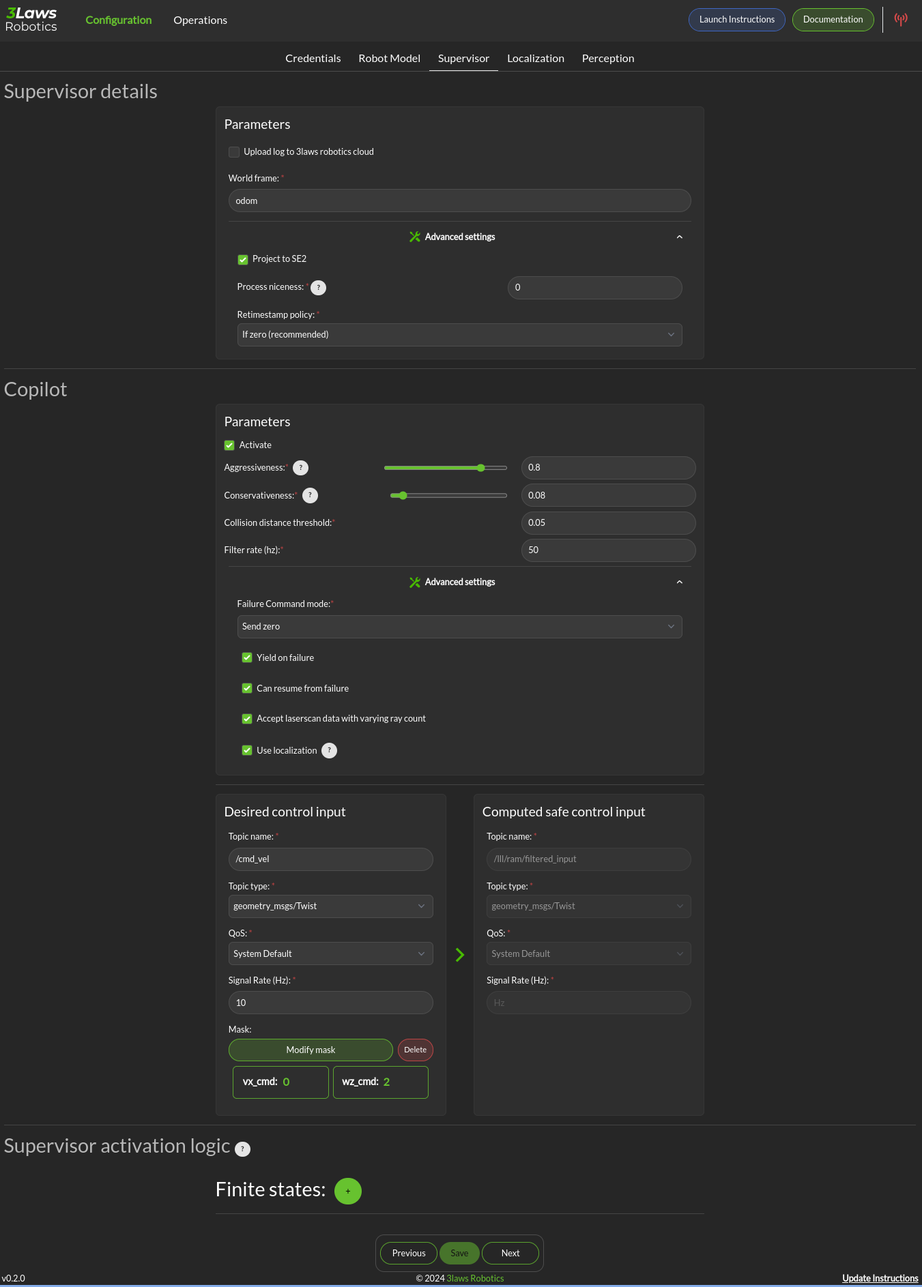
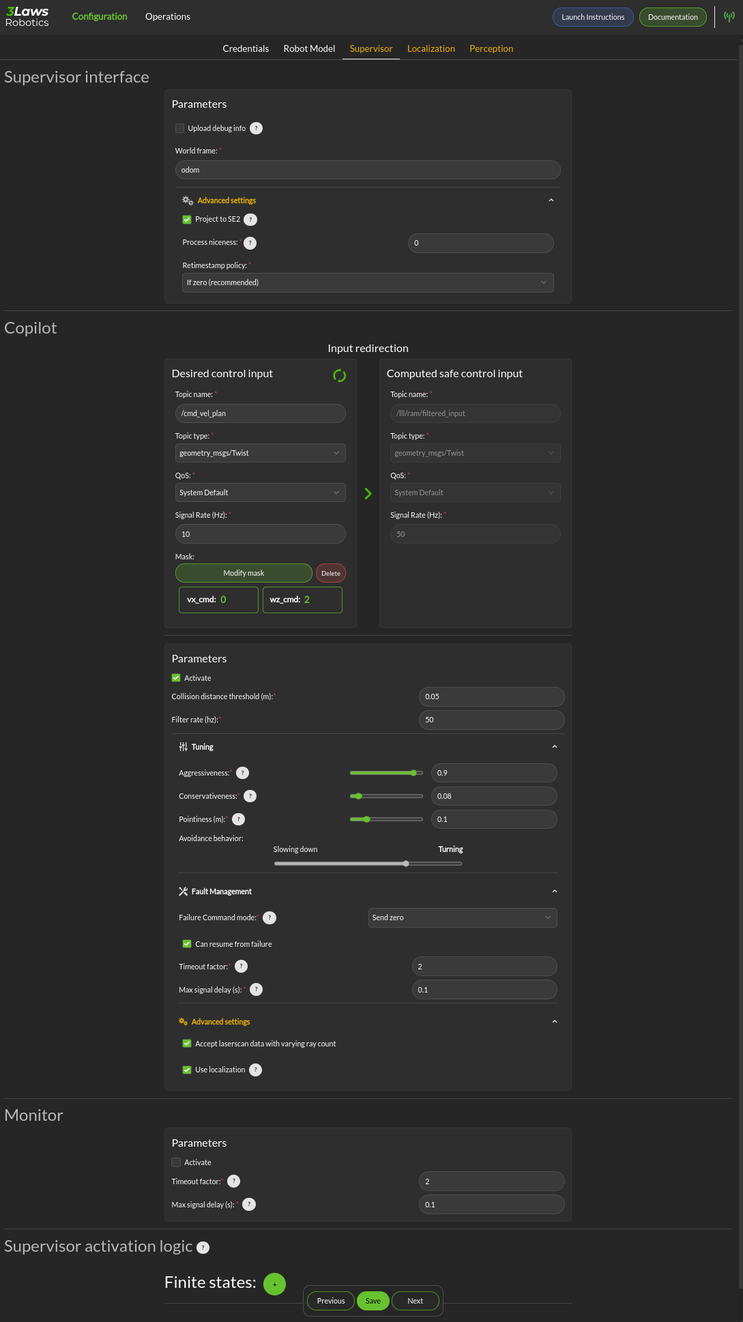
Synced text with images from latest control panel
Also filled in the FAQs page.

diff --git a/docs/sources/configuration/supervisor.rst b/docs/sources/configuration/supervisor.rst
@@ -1,3 +1,5 @@
+.. _supervisor activation:
+
 Supervisor
 ==========
 
@@ -8,48 +10,57 @@ The Configuration > Supervisor page contains configuration entries for both the 
    :alt: Configuration > Supervisor page where robot diagnostic monitoring thresholds and run-time assurance settings are available.
 
 
-- **Upload log to 3laws robotics cloud**: For debugging purposes, 3Laws creates a log file when Supervisor is started. Enabling this option, allows 3Laws to provide better support with troubleshooting if there is a problem.
+- **Upload log to 3laws robotics cloud**: For debugging purposes, 3Laws creates a log file when Supervisor is started. The file is stored in *~/.3laws/logs*. Enabling this option allows 3Laws to provide better support with troubleshooting if there is a problem.
 
   * **World Frame**: Similar to "base robot frame", the name of the world frame (typically *odom* or *map*) must be specified.
 
-  * **Advanced Settings > Project to SE2**: By default, the system is assumed to operate in 3-dimensional space. Projecting to SE2 assumes that the vehicle is traveling on a flat surface or that its travel distance is small enough that earth curvature effects are not significant.
+  * **Advanced Settings > Project to SE2**: By default, the system is assumed to operate in 3-dimensional space. Projecting to SE2 assumes that the vehicle is traveling on a flat surface or that its travel distance is small enough that earth curvature effects are not significant.  When mapping from 3-dimensional space to 2-dimensional space, the system is assumed to have zero roll and pitch while being placed on the ground. No rotational velocities or acceleration are assumed around roll and pitch, and zero vertical velocity and acceleration are assumed.
 
   * **Advanced Settings > Process niceness**:  The computational priority of the Supervisor node can be set through the "niceness" parameter, where -20 would set it as very high priority and +19 would be very low priority. A niceness of zero is recommended. (Please review documentation on setting priority in Linux using "nice" for a deeper explanation.)
 
   * **Advanced Settings > Retimestamp policy** is used to add or correct the timestamp on log messages that seem to have an incorrect one. Leaving the timestamp unchanged is also an option.
 
-* **Copilot**: The Copilot enables the run-time assurance capability where desired commands to the robot from the autonomy stack ("desired inputs") are modified in order to avoid collisions, and altered versions are published through a separate message.
+* **Copilot**: *Input Redirection* The Copilot enables the run-time assurance capability where desired commands to the robot from the autonomy stack ("desired inputs") are modified in order to avoid collisions, and altered versions are published through a separate message.
 
-  * **Activate**: This checkbox controls whether the run-time assurance intercepts and modifies commands from the planner/trajectory generator and forwards modified versions to the vehicle. The Copilot will only modify the outputs if the option is activated. If it is not activated, the unmodified "desired control input" will be transmitted on the designated "Computed safe control" message.
+  * **Desired control input**: This is the set of commands requesting speed and rotation (or speed and steering) that the autonomy stack is publishing. The ROS message type is needed so that Supervisor knows what to monitor in order to calculate the barrier function value. The message quality and receipt rate are monitored as part of the aggregated metrics, and if it fails to arrive within the expected time [1/(signal rate) * Timeout factor], an event will be created and the Copilot will transition to the failure command mode.
 
-  * **Aggressiveness**: This parameter controls how far from the nearest obstacle the safety filter starts having more effect on the commands and how strongly the safety filter pushes the robot back into the "safe" region if the safety definition has been violated. A larger value means that the control inputs from the planner will start to be modified when the robot is farther from an object/obstacle. In general this will produce larger margins. A larger value also means that if an obstacle is detected within the collision distance, the command modified by the run-time assurance will try to move the robot away from the object more aggressively. Typical values are between 0.5 and 1.0, but values in the range of 1000 might be used in reasonable situations. A smaller value means that the the robot will get closer to the obstacles (higher performance) before being diverted.
+  * **Computed safe control input**: The right side of this area is purely informational. However, if the robot is to be controlled by the run-time assurance signal, it needs to subscribe to the message that is presented here. Alternatively, the launch file for Supervisor can be modified so that */lll/ram/filtered_input* is remapped to the command signal expected by the platform.
 
-  * **Conservativeness**: A factor that specifies how much uncertainty the robot operator thinks there is in the localization and sensor data. The ratio between aggressiveness and conservativeness is the main controller of the behavior. Values below 0.1 are recommended.
+  * **Parameters > Activate**: This checkbox controls whether the run-time assurance intercepts and modifies commands from the planner/trajectory generator and forwards modified versions to the vehicle. The Copilot will only modify the outputs if the option is activated. If it is not activated, the unmodified "desired control input" will be transmitted on the designated "Computed safe control" message.  Additionally, when activated the CoPilot passes the unmodified desired input through to the platform except when a corrective action is needed.
 
-  * **Collision distance threshold**:  This is one of the most important values to set. This defines the distance between the edge of the robot and the nearest scan at which safety exists. If the measured distance drops below this value, the system is considered to be in an "unsafe" configuration.
+  * **Parameters > Collision distance threshold**:  This is one of the most important values to set. This defines the distance between the edge of the robot and the nearest scan at which safety exists. If the measured distance drops below this value, the system is considered to be in an "unsafe" configuration.
 
-  * **Filter rate (hz)**: The frequency at which the run-time assurance publishes outputs. It is recommended that the run-time assurance run at the same rate as the desired control input or at a faster rate.
+  * **Parameters > Filter rate (hz)**: The frequency at which the run-time assurance publishes outputs. It is recommended that the run-time assurance run at the same rate as the desired control input or at a faster rate.
 
-The following are under the "Advanced Settings". If the Copilot is activated, these should be customized:
+  * **Tuning > Aggressiveness**: This parameter controls how far from the nearest obstacle the safety filter starts having more effect on the commands and how strongly the safety filter pushes the robot back into the "safe" region if the safety definition has been violated. A larger value means that the control inputs from the planner will start to be modified when the robot is closer to an object/obstacle. That is, a larger value allows the platform to approach objects faster, and get closer.  If it gets too close, the Supervisor will push away from the object harder with a higher value.  A lower value will lead to a more tentative travel that stays farther away from objects.  In general lower values will produce larger margins. Typical values are between 0.5 and 1.0, but values in the range of 1000 might be used in reasonable situations. 
 
-      * **Failure Command Mode**: The run-time assurance constantly monitors to ensure that it has enough data to determine whether the robot is in a safe condition. The minimum data required is the vehicle state, the laser scan values, and the commanded/desired input. If any of these is missing the RTA can switch to the failure command mode:
+  * **Tuning > Pointiness**: A rectangular (box) shape has an unintended behavior that if the robot comes towards a narrow object diretly in front of it, the closest point calculation will select the center-line of the box as the evaluation point for distance.  If the outer corners get closer to the object, the barrier function will want to increase the distance between the object and the box, so it will tend to center the box relative to the object.  A more desirable behavior is for the box to turn away from the object to be able to get around it.  The *pointiness* parameter is a way of accomplishing this.  If the box has a nose with sharper curvature, the barrier function will push it away from the object laterally, rather than simply trying to increase the measured closest distance between the box and the object.  So increasing the "pointiness" will encourage the vehicle to "turn away" from obstacles that are directly in front. 
 
-        * **Send Zero**:  In this mode the run-time assurance commands zero speed and zero turn/rotation in order to bring the vehicle to a stop.
+  * **Tuning > Avoidance Behavior**: Similar to pointiness, the alternate behavior can also be selected as choosing to slow down more or choosing to turn away from the object more as the commanded (desired) input drives the platform towards an object.
 
-        * **Do not Publish**:  Another option is to stop publishing values. This option should only be used if the robot has its own mechanism to put itself in a safe condition if it is not receiving commands.
+  * **Fault Management > Failure Command Mode**: The run-time assurance constantly monitors to ensure that it has enough data to determine whether the robot is in a safe condition. The minimum data required is the vehicle state, the laser scan values, and the commanded/desired input. If any of these is missing the RTA can switch to the failure command mode:
 
-      * **Yield on failure**:  This checkbox is like the "Send Desired" option. Setting this checkbox will override the failure control mode and just forward the "Desired control input" unmodified.
-      * **Can resume from failure**: With this checkbox filled in, once the input data (control input, laser scan, and state) values start appearing after a failure, the robot will be commanded back into motion (if the desired control input is asking for that). If the box is unchecked once there is a failure, the robot will remain stopped until the Supervisor is restarted.
+    * **Send Zero**:  In this mode the run-time assurance commands zero speed and zero turn/rotation in order to bring the vehicle to a stop.
 
-      * **Accept wrong size laserscan**: One of the checks that is made on the incoming data is that the laserscan is delivering the expected number of scan points each frame. However, there are many laser scanners that are not consistent in the number of scan points they deliver. Checking this option allows for laser scanners with non-constant number of scan points reported.
+    * **Do not Publish**:  Another option is to stop publishing values. This option should only be used if the robot has its own mechanism to put itself in a safe condition if it is not receiving commands.
 
-      * **Use localization**:  Supervisor provides a MarkerArray that displays the robot's bounding box and rays to the closest obstacles. If "Use Localization" is set, the display is created relative to the world frame. In situations where the localization may be less reliable, this checkbox can be deselected, and the visualization will be based on the current robot base frame. Localization is also very useful if the control rate is low (e.g. longer times between commands) or there are delays between sensing and actuating. If the robot's motion is large during the time period of the control calculation, the model will account for it as long as localization is accurate.
+  * **Fault Management > Can resume from failure**: With this checkbox filled in, once the input data (control input, laser scan, and state) values start appearing after a failure, the robot will be commanded back into motion (if the desired control input is asking for that). If the box is unchecked once there is a failure, the robot will remain stopped until the Supervisor is restarted.
 
-The next section relates to republishing the control commands to the robot that are being sent from the autonomy stack. The values will be published on the *lll/ram/filtered_input* channel if the Copilot is activate or not. However, the values will only be different from the *Desired control input* if the Copilot is active.
+  * **Advanced Settings > Accept wrong size laserscan**: One of the checks that is made on the incoming data is that the laserscan is delivering the expected number of scan points each frame. However, there are many laser scanners that are not consistent in the number of scan points they deliver. Checking this option allows for laser scanners with non-constant number of scan points reported.
 
-  * **Desired control input**: This is the commands requesting speed and rotation (or speed and steering) that the autonomy stack is publishing. The ROS message type is needed so that the RDM knows what to monitor in order to calculate the barrier function value. The message quality and receipt rate are monitored as part of the aggregated metrics, and if it fails to arrive within the expected time [1/(signal rate) * Timeout factor], an event will be created and the Copilot will transition to the failure command mode.
+  * **Advanced Settings > Use localization**:  Supervisor provides a MarkerArray that displays the robot's bounding box and rays to the closest obstacles. If "Use Localization" is set, the display is created relative to the world frame. In situations where the localization may be less reliable, this checkbox can be deselected, and the visualization will be based on the current robot base frame. Localization is also very useful if the control rate is low (e.g. longer times between commands) or there are delays between sensing and actuating. If the robot's motion is large during the time period of the control calculation, the model will account for it as long as localization is accurate.
 
-  * **Computed safe control input**: The right side of this area is purely informational. However, if the robot is to be controlled by the run-time assurance signal, it needs to subscribe to the message that is presented here.
+- **Monitor**:
+
+  Supervisor can publish a variety of diagnostic messages related to the health of the system clock, the dyamic consistency of the motion of the platform, individual node health, signal coherency, and summarized system health.  The published messages are discussed in :ref:`published topics`.   These messages in the */lll/rdm* domain are only published if the Monitor is set to Active.
+  
+    * **Activate**: Enable publication of the diagnostic messages through the */lll/rdm* domain.  Faults detected in these variables do not cause CoPilot to switch to the failsafe mode.
+
+    * **Timeout Factor**: Allows this many messages at the expected arrival rate to be missed before reporting an error.
+
+    * **Maximum Delay (s)**: Maximum amount of time that a message can fail to appear before reporting an error.
+        
+The bottom section relates to republishing the control commands to the robot that are being sent from the autonomy stack. The values will be published on the *lll/ram/filtered_input* channel if the Copilot is activate or not. However, the values will only be different from the *Desired control input* if the Copilot is active.
 
 - **Supervisor activation logic**:
 

diff --git a/docs/sources/faq.rst b/docs/sources/faq.rst
@@ -1,7 +1,77 @@
 FAQ
 #####################################
 
-Does the supervisor support other types of vehicles?
-====================================================
+How does the 3Laws Supervisor work?
+===================================
 
-Yes, the supervisor can be used with any type of vehicle, as long as the vehicle is equipped with a GPS receiver and an IMU. The supervisor is not limited to cars, and can be used with trucks, buses, motorcycles, bicycles, etc.
+Supervisor depends on a kinematic/dynamic model of the vehicle, a measure of the distance to the nearest object(s), and the current requested input to the system. In simple terms, Supervisor calculates the likelihood that the current command will drive the vehicle to come too close to the nearest objects faster than the vehicle can be pushed away from them.  If the measure indicates an imminent violation of the requested margin, Supervisor will find the motion command that is quadratically closest to that being requested but yet keeps the vehicle from colliding.  When no collision is predicted, Supervisor forwards the requested input directly as output. The input is only modified when a collision (or a fault) is detected.
+
+Supervisor also has several fault handling options.  Supervisor will monitor the regularity of receipt of the obstacle list or LaserScan input, of the state, and of the requested input.  If any of these signals drops out or fails to meet criteria like number of scan points, Supervisor can either stop forwarding the requested input or can send zeroes - to stop motion of the vehicle.
+
+What are CBFs?
+==============
+
+Control barrier functions are a mathematical formulation to constrain a physical system in motion to stay within a desired region of operation.  By commanding the system back into what is defined as the desirable (or “invariant set”) region, certain properties similar to stability and safety can be provided.  In theory these properties are guaranteed as long as the system responds according to the mathematical model that is being used.  
+
+The CBF itself is a mathematical function that measures the distance from the system’s current condition to a boundary.  The objective is to keep the system within the boundary.  The definition of the boundary or barrier can be built to meet a wide variety of goals including collision avoidance, geo-fencing, falling over, exceeding angles-of-attack, violating accelerations, and multiple others.
+One of the main advantages of this formulation is that multiple objectives can be applied simultaneously.  
+
+Operation of the CBF technology requires both the definition of the barrier function and creation of a remediation strategy. The remediation is an approach to command the system back into a region where the function has the desirable value.  Typically, there will be a large collection of commands that can maintain the system’s state within the desirable regions, so a choice of the “best” one needs to be made.  The implementation in Supervisor sets up a quadratic programming (QP) problem to obtain this solution.  This optimization means that the system will come as-close-as-possible to the motion that is being requested while still avoiding the undesirable outcome like a collision.  
+
+3Laws was founded by Aaron Ames and some of his team members who are responsible for creating the concept and developing/successfully demonstrating  the implementations in a variety of systems including walking robots, wheeled vehicles, autonomous trucks, quad-copters, watersport boats, and commercial/military aircraft.
+
+What is needed in order to implement a CBF?
+===========================================
+
+CBFs depend on a mathematical model of the physical (dynamical) system of interest. Often, a reduced-order model can be used without significant loss of performance/guarantees.  Reduced order models result in lower computational loads.  However, higher model precision and accuracy are desirable because margins for uncertainty can be reduced.
+
+Next, CBFs depend on the desired barrier function itself.  For collision avoidance, the barrier function could, for example, be the squared distance to the object.  If multiple objects are being tracked, the barrier function can be built as the sum of the distances to these objects.  This is a great feature because one can then use a point-cloud to represent the objects, and a scan can be done through the point cloud, always responding to the worst-case (closest) point. 
+
+Then, beyond the need for computational equipment, the only  remaining needs are the desired commands that drive the system, the state of the system (if there are system-state variables in the barrier function) and the external measurements (like obstacles) arriving in real-time. 
+
+How are CBFs implemented in 3Laws Supervisor?
+What Makes 3Laws Supervisor so performant? Provable Math.
+
+- Supervisor Rate of change is based on the barrier function h, which must satisfy: hdot >= alpha * h
+- Solution depends on applied actions (u) and the system model: dx/dt = f(x) + g(x)*u
+- Solution process:
+  - Compute the expression for h to give sets of linear constraints.
+  - Solve the constraints (through a QP) to produce modified commands that are closest to the original but meet the constraints.
+  - Stopping the vehicle or changing direction are typical optimal solutions.
+- Expanded Capabilities:
+  - Multiple objects/barriers.
+  - Noise and Uncertainties methodically handled.
+  - Aggressive/Conservative Qualities can be adjusted.
+
+-Updates by the planner immediately produce a new, modified u. 
+
+This approach generalizes for drones, quadrupeds, aircraft, AMRs, manipulators  autonomous vehicles, or anything that moves and has fly-by-wire controllers.
+
+Does Supervisor use any methods other than CBFs to deliver its functionality?
+=============================================================================
+
+Supervisor goes beyond just CBFs in order to provide a more practical solution.  The way the Supervisor filtering is implemented provides a really convenient path to also provide capabilities like bringing the vehicle to a “failsafe” configuration if problems are detected with incoming data.  Supervisor monitors the primary 3 data streams (system state, desired inputs, obstacle/sensor) and if any of these states does not meet the requirements such as regular arrival time, Supervisor can switch to a fail-safe state (e.g. send stopping commands).  Supervisor can also monitor additional variables that have discrete states (e.g. “starting”, “running”, “stopped”), and can cause a change to failsafe state if one or more of these monitored variables has an undesirable value.
+
+What are some examples of 3Laws Supervisor applications? In other words, how can Supervisor be used in the real world?
+======================================================================================================================
+
+Currently, Supervisor only supports collision avoidance for omni-directional, differential-drive, and single-track vehicles. 
+
+Supervisor **Pro** offers collision avoidance, geofencing, system stability, and other operation constraint satisfiers. Specifically, Supervisor Pro can add the necessary control to your system to satisfy any performance constraint as long as your systems’ sensors provide the relevant real-time metrics. 
+
+What is the difference between Supervisor and Supervisor **Pro**?
+=================================================================
+
+Supervisor is a fast-to-install, low-configuration collision avoidance software component for omni-directional, differential-drive, and single-track vehicles controlled by ROS and ROS2.
+
+Supervisor Pro uses the same codebase as Supervisor but is tailored/optimized  for specific platforms and use cases.  For example, if the system uses interfaces other than ROS, Supervisor Pro can be designed using the appropriate interfaces.  More importantly, Supervisor Pro will achieve higher performance because it is built for the individual platform including considerations about its operational domain and what objectives it must accomplish.  The Control Barrier Functions and models most appropriate to the individual operations are selected and applied.
+
+On what types of systems has 3Laws implemented Supervisor?
+==========================================================
+
+Supervisor is currently implemented on Autonomous Mobile Robots (AMRs).  Supervisor Pro has been implemented on semi trucks, military drones, fighter jets, manipulators, AMRs, inverted pendulums (Segways), speed boats, and quadrupeds.
+
+How long has Supervisor been under development?
+================================================
+
+Supervisor has a long and proven legacy of development and industrial testing both at Georgia Tech and Caltech for over 8 years with industry leaders such as Raytheon, Ford, Wondercraft, BP, et al.

diff --git a/docs/sources/getting_started.rst b/docs/sources/getting_started.rst
@@ -6,7 +6,7 @@ Getting started
 Installation
 ***************
 
-The 3Laws Robotics Supervisor currently requires that the robot uses the Robot Operating System (`ROS <http://www.ros.org>`_).
+The 3Laws **Supervisor** requires Robot Operating System (`ROS <http://www.ros.org>`_) for proper communication with the base platform.
 
 Multiple ROS version are supported:
 
@@ -18,16 +18,15 @@ Multiple ROS version are supported:
 |        20.04          |     Noetic   |     Galactic/Foxy   |
 +-----------------------+--------------+---------------------+
 
-Supervisor is available for x86_64 and ARM-64 processor architectures. Other architectures
-may be available upon request.
+Supervisor is available for x86_64 and ARM-64 processor architectures. Other architectures may be available upon request.
 
-To install Supervisor on your system, open a terminal and run the following command:
+To install Supervisor on the system, open a terminal and run the following command:
 
 .. code-block:: bash
 
   bash <(curl https://raw.githubusercontent.com/3LawsRobotics/3laws/master/install.sh)
 
-This script will download a package from github and will begin the installation. Note that the package name starts with "lll-supervisor". The "lll" represents 3Laws. As the script proceeds it will try to determine your system's configuration so that the appropriate components are installed. The script will prompt you for help with configuration if it is unable to find your computer's ROS distribution or architecture.
+This script will download a package from github and will begin the installation. Note that the package name starts with "lll-supervisor". The "lll" represents 3Laws. As the script proceeds it will try to determine the system's configuration so that the appropriate components are installed. The script will prompt for help with configuration if it is unable to find the computer's ROS distribution or architecture.
 
 During the execution of the script, several questions will be asked:
 
@@ -37,7 +36,7 @@ During the execution of the script, several questions will be asked:
 
 #. A *sudo* permission may be ask to run APT and install the software.
 
-The script will add components to the global ROS installation. These new components will not be available until the ROS setup script is source. If your configuration automatically runs the ROS setup script when a new shell is started, please close the terminal and open a new one. Otherwise, please run the following command:
+The script will add components to the global ROS installation. These new components will not be available until the ROS setup script is source. If the configuration automatically runs the ROS setup script when a new shell is started, please close the terminal and open a new one. Otherwise, please run the following command:
 
 .. code-block:: bash
 
@@ -61,19 +60,19 @@ Run the following command to see the available commands:
 
   3laws --help-all
 
-After installation you can use the CLI to start the Control Panel:
+After installation the command-line interface (CLI) can be used to start the Control Panel:
 
 .. code-block:: bash
 
   3laws control-panel run
 
-If you prefer using a service to run the Control Panel in the background, you can use the following command:
+If a service is preferred for running the Control Panel in the background, use the following command:
 
 .. code-block:: bash
 
   3laws control-panel autostart enable
 
-This will create a user service. This one will be started automatically when the system boots up. The Control Panel will be available at `http://localhost:8080`. If you want to change the port, you can use the following command:
+This will create a user service. This one will be started automatically when the system boots up. The Control Panel will be available at `http://localhost:8080`. To change the communication port, use the following command:
 
 .. code-block:: bash
 
@@ -86,7 +85,7 @@ To turn off the service so that the Control Panel service is removed from the sy
    3laws control-panel autostart disable
 
 The Control Panel can also display a summary of operational conditions, but this capability requires a rosbridge server. To install and start a rosbridge
-server (where <rosdistro> is replaced with the version of ROS on your system):
+server (where <rosdistro> is replaced with the version of ROS on the system):
 
 .. code-block:: bash
 
@@ -104,7 +103,7 @@ The navigation bar of the control panel will show the status of the rosbridge se
 Configuration through the Control Panel visual interface
 ************************************************************
 
-The 3Laws Supervisor is able to support several types of robots, but needs to connect to your system's data sources and sinks. The configuration process aims to specify this type of information. The Supervisor does not have to run during the configuration step. It loads the configuration file at start-up, so it needs to be started **after** the configuration is created/updated.
+The 3Laws Supervisor is able to support several types of robots, but needs to connect to the system's data sources and sinks. The configuration process aims to specify this type of information. The Supervisor does not have to run during the configuration step. It loads the configuration file at start-up, so it needs to be started **after** the configuration is created/updated.
 
 
 The initial view of the Control Panel is the "Configuration" page, which consists of sections (tabs) listed as **Credentials**, **Robot Model**, **Supervisor**, **Localization**, and **Perception**. The details of the contents of each of these pages are linked below.
@@ -131,7 +130,7 @@ The initial view of the Control Panel is the "Configuration" page, which consist
 Launch
 *********
 
-Before starting the supervisor be sure to have your ROS environment correctly set up and sourced.
+Before starting the supervisor be sure to correctly set up/source the ROS environment.
 
 .. code-block:: bash
 
@@ -209,9 +208,9 @@ The lower section of the panel is showing strip charts. The categories that are 
 Version Update
 *****************
 
-To update the Supervisor, you can use the same command as for the installation.
+To update the Supervisor, use the same command as for the installation.
 
-The supervisor will be updated to the latest version available for your distribution, **Existing configurations will not be modified**, but if new variables need to be configured, you will be advised during the installation.
+The supervisor will be updated to the latest version available for the system's distribution. The **existing configurations will not be modified**, but if new variables need to be configured, advisories will be given during the installation.
 
 .. code-block:: bash
 

diff --git a/docs/sources/configuration/robot_model.rst b/docs/sources/configuration/robot_model.rst
@@ -1,6 +1,6 @@
 Robot Model
 ===========
-The Configuration page for the Robot Model is where the robot's geometry and kinematics are specified.
+The Configuration page for the Robot Model is where the robot's geometry and kinematics are specified.  The model and shape are critical for predicting when collisions may occur and for calculating how to avoid them.
 
 .. image:: ../data/cpanel2.png
    :width: 800px
@@ -8,18 +8,19 @@ The Configuration page for the Robot Model is where the robot's geometry and kin
 
 Throughout this documentation, a red asterisk (*) indicates a *required* field.
 
-- **Kinematics**: Supervisor currently supports differential drive, front-steered, and omni-directional mobile platforms. A differential drive vehicle can rotate around a fixed location by driving one wheel forward and its pair in reverse. It can move forward or backwards by driving both wheels in the same direction. A front-steered vehicle operates like a car or bicycle. It can move forwards or backwards, but direction is controlled by steering, and the vehicle has a fixed wheelbase distance between the forward axle and the rear axle. An omni-directional robot is usually implemented using wheels that have a series of smaller wheels mounted at 45 degrees on the outer rim. By moving one axle forward and others backwards, the vehicle can move sideways. Rotation can be effected by moving the wheels on one side forwards and the wheels on the other side in reverse.
+- **Kinematics**: **Supervisor** currently supports differential drive, front-steered, and omni-directional mobile platforms. A differential drive vehicle can rotate around a fixed location by driving one wheel forward and its pair in reverse. It can move forward or backwards by driving both wheels in the same direction. A front-steered vehicle operates like a car or bicycle. It can move forwards or backwards, but direction is controlled by steering, and the vehicle has a fixed wheelbase distance between the forward axle and the rear axle. An omni-directional robot is usually implemented using wheels that have a series of smaller wheels mounted at 45 degrees on the outer rim. By moving one axle forward and others backwards, the vehicle can move sideways. Rotation occurs by moving the wheels on one side forwards and the wheels on the other side in reverse.
+  
 - **Geometry**: The vehicle's reference coordinate frames and geometry are specified in this section.
-
+  
   * **Shape Details**: The robot's shape is used in order to calculate the distance between the outer boundaries of the robot body and any scan points. Basic shapes that are currently supported include sphere, box, capsule, point, cone and cylinder. The size entries change based on the selected shape. Cylinders and capsules both require length and radius. The difference is that a capsule will have hemispheres on the ends while the cylinder ends are flat. A box frame consists of x-length, y-length, and z-length.
 
-   * **Shape Pose in Robot Frame**: The relative orientation of the robot's shape with respect to the base frame needs to be specified. Note that the rotation can be specified either using quaternions or Euler angles. The quaternion order is w, x, y, z. When Supervisor is running, it is a good idea to run rviz (or rviz2) to display the orientations and frames.
+  * **Shape Pose in Robot Frame**: The relative orientation of the robot's shape with respect to the base frame needs to be specified. Note that the rotation can be specified either using quaternions or Euler angles. The quaternion order is w, x, y, z. When Supervisor is running, it is a good idea to run rviz (or rviz2) to display the orientations and frames. The coordinate frame convention used here is x: positive forward, y positive to the left, and z positive upwards.  The geometric center and orientation of the shape starts as being centered on the base coordinate frame/orientation of the robot.  The shape should be translated and rotated appropriately if the base coordinate frame does not align with the center.
 
   * **Frames**: The name of the robot base coordinate frame must be specified here. The base frame is in robot body-coordinates. It moves in space as the robot does. Additional static frames can be defined by clicking the + icon. The additional frames are static, and will follow the motion of the base robot frame.
 
 - **Dynamics**: The Dynamics section has 3 subsections: Input, Parameters, and State.
 
-  * The Input section supports specification of maximum and minimum limits for the translational and rotational speeds at which the robot can be commanded. For monitoring, if these values are exceeded, an event to this effect will be issued. If the Copilot component is active, these limits will be applied to the filtered outputs. For steered vehicles, instead of limits on rotational speeds, steering limits are specified.
+  * The **Inputs** section supports specification of maximum and minimum limits for the translational and rotational speeds at which the robot can be commanded. For monitoring, if these values are exceeded, a log-event describing the violation will be issued. If the CoPilot component (see :ref:`supervisor activation`) is active, these limits will be applied to the filtered outputs. For steered vehicles, instead of limits on rotational speeds, steering limits are specified.
 
   * **Parameters**: The only robot type that has inputs in the parameters section is the steered robot. *wheel_dx* is the wheelbase length for the vehicle. *origin_x* is the distance from the rear axle to the robot base frame.
 

diff --git a/docs/sources/details/topics.rst b/docs/sources/details/topics.rst
@@ -1,3 +1,5 @@
+.. _published topics:
+
 Supervisor ROS topics
 *********************
 
@@ -24,10 +26,19 @@ When the CoPilot/Run-time assurance capability is enabled, the following additio
 
 The following topics are published by the Supervisor's diagnostics:
 
-- ``/lll/rdm/clock_health``: Statistics reporting variations in the synchronization of the robot clock and Universal time.
-- ``/lll/rdm/dynamic_consistency``: If a dynamical model has been added to the configuration, this topic will compare the predicted model behavior to the current behavior and provide discrepancy metrics.
-- ``/lll/rdm/node_health``: Node health gives a general view of the health of the robot components likes localization, perception, inputs, and states.
-- ``/lll/rdm/sensor_characterization``: This metric presents statistics on the noise characteristics, data dropouts, anomalies, and potential obstructions of the sensors.
-- ``/lll/rdm/systems_health``: Detailed information about the system resource usage (CPU, RAM, etc.) is provided through this channel.
-- ``/lll/rdm/signal_health``: All Supervisor input signals (state, commands, perception) are treated as signals with a specific frequency. This metric gives information about the signal health (timeout, delays, invalid data) based on the configured expected signal rates.
+
+- ``/lll/rdm/clock_health_utc``: Statistics reporting variations in the synchronization of the robot clock and Universal time. This presents the current UTC time and real-time-clock value in nanoseconds since 1970, presenting the offset between the two.
+- ``/lll/rdm/domain_status``: The summary of the condition of the vehicle is presented in the following fields: system_status, behavior_status, hardware_status, perception_status, and control_status.  When everything is working properly, a status of OK is reported for each. 
+- ``/lll/rdm/dynamic_consistency``: If a dynamical model has been added to the configuration, this topic will compare the predicted model behavior to the current behavior and provide discrepancy metrics.  Several values including differences in speeds between the platform and the model, and statistics on these differences are provided.  Time since last input and time since last state message are also provided (in nanoseconds).
+- ``/lll/rdm/incidents_log``: As events are detected in the system, they are published through this channel as text messages.  The "tags" area of the message includes discrete-value key-value pairs for severity and type of issue.
+- ``/lll/rdm/node_health``: Node health provides the status messages from various nodes. For example, the sensor_node provides details of the laserscan including the time since the last message, and average/min/max sending rates, receipt rates, and delays.
+- ``/lll/rdm/sensor_noise``: This metric presents statistics on the noise characteristics for the sensors including: average error, maximum error, maximum angle error, and percentage of sigma.  Each data set is tagged with the sensor it corresponds to.
+- ``/lll/rdm/sensor_obstruction``: If the monitor detects that the laserscan appears to be obstructed in certain angular sectors, the information about the amount of osbtruction is published through this channel.
+- ``/lll/rdm/signal_health``: Monitor is constantly checking to see if inputs to the system are reasonable (e.g. are finite, numerical values). If values such as Not-a-Number (nan), purely zero, or infinity are received, the occurrences are reported.
+- ``/lll/rdm/systems_health``: Detailed information about the system resource usage is provided through this channel: system_id, cpu_load, ram_usage, disk_usage, network_read, network_write, cpu_nb (core count), and procs_nb (process count).
+
+More precise control can be obtained by editing the *supervisor.yaml* file under the *robot_diagnostics_module* area. The default settings are shown below.
+
+.. literalinclude:: rdm_data.txt
+
 

diff --git a/docs/sources/configuration/credentials.rst b/docs/sources/configuration/credentials.rst
@@ -1,14 +1,14 @@
 Credentials
 ===========
 
-The *Credentials* page is shown in this image:
+The *Credentials* page appears as follows:
 
 .. image:: ../data/cpanel1.png
    :width: 800px
    :alt: Configuration > Credentials: Control Panel page presenting Credentials, Robot name
 
-- **Credentials**: 3Laws will provide you with a license key based on the version of Supervisor that you have purchased with an expiration date. If you downloaded the trial version, the expiration date is 60 days from the date when you registered for the trial. If you have arranged with 3Laws to also use the cloud-based dashboards, the license you receive will also include the information necessary for that connection.
-- **Robot Name**: This identifier will be different for each robot where you install Supervisor. It should contain a name you can use to identify an individual robot.
+- **Credentials**: 3Laws will provide a license key based on the version of Supervisor that has been purchased/downloaded.  The license key incorporates an expiration date. If a trial version was downloaded, the expiration date is 60 days from the request date for the trial. If arrangements were amde with 3Laws to also use the cloud-based dashboards, the license will include the information necessary for that connection.
+- **Robot Name**: This identifier will be different for each robot where Supervisor is installed. It should contain a name you can use to identify an individual robot. Note that each license of Supervisor is only valid for a single platform/robot.
 
 The upper-right of the display contains the Rosbridge connection status (upper right), configuration for the Rosbridge (gear next to the status), and a link to this documentation. There is an "Update Instructions" link in the lower right that brings up a reminder of the instruction to run the installer script.
 

diff --git a/docs/sources/configuration/localization.rst b/docs/sources/configuration/localization.rst
@@ -8,4 +8,4 @@ Dialogs to connect to the state information provided for the robot and for confi
    :alt: Configuration > Localization page where monitoring of the vehicles location/state is configured.
 
 
-- **Localization topic**: The connection to the ROS state topic is configured in this area. As with input commands, the message topic name, message topic type, expected message topic quality, and expected message rates are specified. If the message quality fails or the message receipt rate is not met, the monitor will issue alerts, and the Copilot will switch to the Failsafe strategy. The mask needs to be customized if the localization topic does not respect the standard ROS message. The index in the input vector relating to the individual states (x, y, yaw) needs to be set correctly.
+- **Localization topic**: The connection to the ROS state topic is configured in this area. As with input commands, the message topic name, message topic type, expected message topic quality, and expected message rates are specified. If the message quality fails or the message receipt rate is not met, the monitor will issue alerts, and the Copilot will switch to the Failsafe strategy. The mask needs to be customized if the localization topic does not respect the standard ROS message. The index mapping from the input vector to the expected states (x-position, y-position, yaw) needs to be set.  The primary use of the localization message is to provide a MarkerArray for visualization mapped to a global/odom frame rather than providing just the base-frame view where the frame stays still and the outside world moves relative to it.

diff --git a/docs/index.rst b/docs/index.rst
@@ -3,10 +3,16 @@
    You can adapt this file completely to your liking, but it should at least
    contain the root `toctree` directive.
 
-Welcome to 3Laws Supervisor Documentation
-=========================================
+Welcome to 3Laws Supervisor
+===========================
 
-Welcome! This is the user documentation for **3Laws Supervisor**, a next-generation sense-and-avoid software module for Cyber-Physical Systems (CPS).
+Welcome to using the **3Laws Supervisor**, a next-generation sense-and-avoid software module for ground-based mobile platforms including differential-drive, front-steered, and omni-directional wheeled and quadruped vehicles.
+
+**Supervisor** requires ROS (Noetic) or ROS2 (Humble/Iron, Galactic/Foxy) for proper operation.  For sensing, **Supervisor** currently supports either a 2D laserscan or a list of obstacles with their locations and shapes.
+
+.. _contact 3Laws: mailto::sales@3laws.io
+
+**3Laws** can build sense-and-avoid or multiple other behaviors for these or other platforms.  Please `contact 3Laws`_ for information on extended and optimized Supervisor capabilities.
 
 Other relevant resources:
 __________________________

diff --git a/docs/sources/user_guide.rst b/docs/sources/user_guide.rst
@@ -53,8 +53,8 @@ The metrics are also summarized and optionally sent to a cloud database for disp
 
 .. _user_guide/control_panel:
 
-Control Panel
-=============
+Signal Remapping
+================
 
 The most straightforward way to insert Supervisor into an existing command chain is to use the ROS remapping feature as illustrated in the figure below. There is no need to make any changes to the signals published or subscribed-to by the existing components. In the example below, the **/cmd_vel** signal represents the output of the Planner and the input to the Controller. At launch time, the Planner's signal can be remapped to an alternate name like **/cmd_vel_plan**.
 
